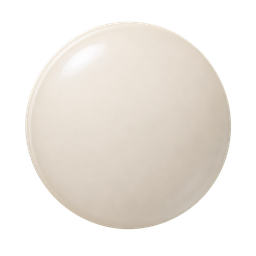
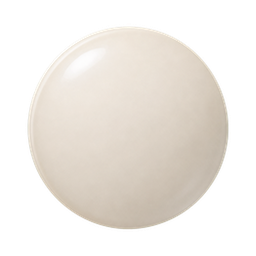
Finalize Omok stone sizing and board palette

diff --git a/index.html b/index.html
@@ -34,7 +34,7 @@
 })();
 </script>
 <meta name="viewport" content="width=device-width, initial-scale=1.0, maximum-scale=1.0, user-scalable=no, interactive-widget=resizes-content">
-<meta name="app-build" content="20260717-hidpi-board-v1">
+<meta name="app-build" content="20260717-stone-wood-final-v1">
 <title>동네 운동회 게임방</title>
 <meta property="og:type" content="website">
 <meta property="og:title" content="동네 운동회 게임방">